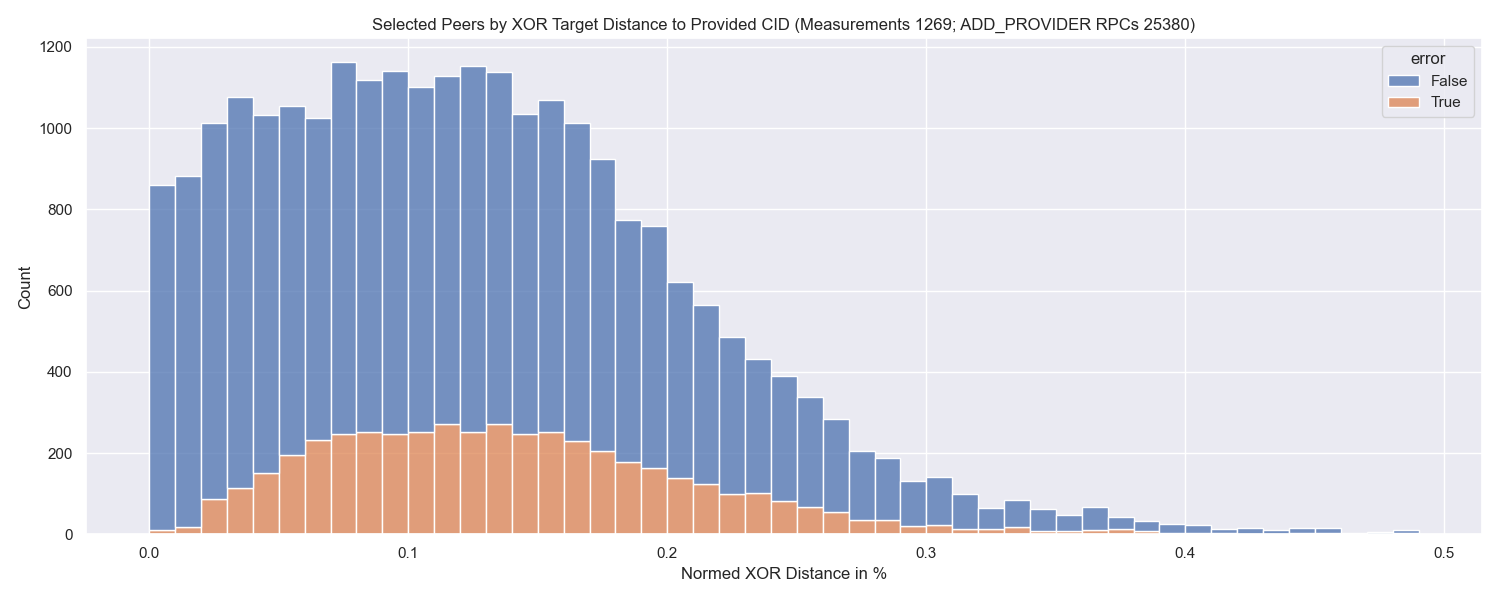
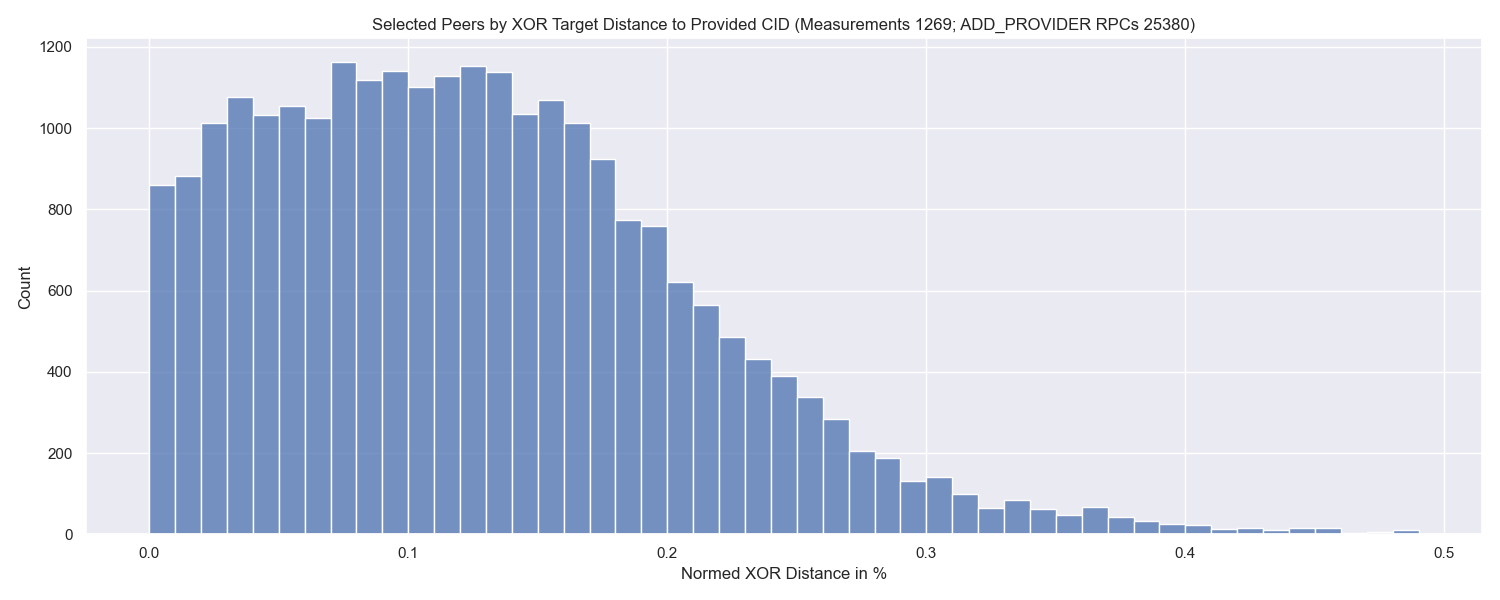
Update plots and README

Changed region(s): [[0.092, 0.69, 0.7667, 0.9], [0.92, 0.09, 0.9813, 0.18]]

diff --git a/analysis/plot_distance_error.py b/analysis/plot_distance_error.py
@@ -12,6 +12,7 @@ def plot():
     measurements = ModelLoader.open("../data")
 
     distances = []
+    has_errors = []
     for measurement in measurements:
         for span in measurement.provider.spans:
             if span.type != "ADD_PROVIDER":
@@ -19,8 +20,12 @@ def plot():
 
             peer_info = measurement.provider.peer_infos[span.peer_id]
             distances += [peer_info.distance_pct]
+            has_errors += [span.has_error]
 
-    combined = pd.DataFrame({"distances": distances})
+    combined = pd.DataFrame({
+        "distances": distances,
+        "error": has_errors
+    })
 
     fig, ax = plt.subplots(figsize=(15, 6))
 
@@ -29,6 +34,9 @@ def plot():
         data=combined,
         x="distances",
         bins=np.arange(50) / 100,
+        multiple="stack",
+        hue="error",
+        legend=True,
     )
     ax.set_ylabel("Count")
     ax.set_xlabel("Normed XOR Distance in %")
@@ -37,7 +45,7 @@ def plot():
     plt.title(
         f"Selected Peers by XOR Target Distance to Provided CID ({stats_str})")
     plt.tight_layout()
-    plt.savefig("../plots/distance.png")
+    plt.savefig("../plots/distance_error.png")
     plt.show()
 
 

diff --git a/README.md b/README.md
@@ -1,4 +1,4 @@
-# Optimistic Provide
+# Optimistic Provide - Tool & Proposal
 
 [![GitHub license](https://img.shields.io/github/license/dennis-tra/optimistic-provide)](https://github.com/dennis-tra/optimistic-provide/blob/main/LICENSE)
 
@@ -7,7 +7,7 @@ This repo contains:
 1. A libp2p DHT performance measurement tool. As of now, it primarily measures the performance of providing content in the network.
 2. A proposal for an alternative approach to content providing.
 
-## 🚧 Work In Progress - Proposal - Optimistic Provide
+## Proposal - Optimistic Provide
 
 ## Abstract
 
@@ -27,20 +27,20 @@ There are two termination conditions for this process:
 This can lead to huge delays if some of the 20 closest peers don't respond timely or are straight out not reachable.
 The following graph shows the latency distribution of the whole provide-process for 1,269 distinct provide operations.
 
-![](./plots/provide_latencies.png)
+![Provide Latencies](./plots/provide_latencies.png)
 
 In other words, it shows the distribution of how long it takes for the [`kaddht.Provide(ctx, CID, true)`](https://github.com/libp2p/go-libp2p-kad-dht/blob/0b7ac010657443bc0675b3bd61133fe04d61d25b/fullrt/dht.go#L752) call to return.
 At the top of the graph you can find the percentiles and total sample size. There is a huge spike at around 10s which is probably related to an exceeded context deadline - not sure though.
 
 If we on the other hand look at how long it took to find the peers that we eventually **attempted** stored the provider records at, we see that it takes less than 1.6s in the vast majority of cases.
 
-![](./plots/discover_latencies.png)
+![Discover Latencies](./plots/discover_latencies.png)
 
 Again, sample size and percentiles are given in the figure title. The sample size corresponds to `1269 * 20` as in every `Provide`-run we attempt to save the provider record at 20 peers.
 
 The same point can be made if we take a look at how many hops it took to find a peer that we eventually **attempted** to store the provider records at:
 
-![](./plots/hop_distribution.png)
+![Hop Distribution](./plots/hop_distribution.png)
 
 Note the log scale of the `y`-axis.
 
@@ -52,7 +52,7 @@ The following graph shows the above distribution depending on the [normed XOR di
 
 <details>
 <summary>View this graph as multiple plots</summary>
-![](./plots/hop_distribution_by_distance_multi_plot.png)
+<img src="./plots/hop_distribution_by_distance_multi_plot.png" alt="Hop distribution multi plot"/>
 </details>
 
 If the distance is small (0 - 10 %) most of the times it only takes one hop to discover an appropriate peer. As the distance increases the distribution shifts to more hops - though it's not as clear as I expected it to be.
@@ -63,7 +63,7 @@ The [IPFS Content Providing Proposal](https://github.com/protocol/web3-dev-team/
 
 > Currently go-ipfs users are able to utilize the public IPFS DHT to find who has advertised they have some CID in under 1.5s in 95+% of cases. However, the process of putting those advertisements into the DHT is slow (e.g. 1 minute) [...].
 
-These numbers are in line with the above measurements. One of the goals of this proposal is to
+These numbers are in line with the above measurements. One of the goals of that proposal is to
 
 > [m]ake IPFS public DHT puts take <3 seconds [...].
 
@@ -74,9 +74,9 @@ To achieve this four techniques are proposed:
 > - Not requiring responses from all 20 peers before returning to the user
 > - Not requiring responses from the 3 closest peers before aborting the query (e.g. perhaps 5 of the closest 10)
 
-This propsoal suggests a fifth option for this list but won't address the bottleneck of advertising large amounts of CIDs.
+This propsoal suggests a fifth option for that list but won't address the bottleneck of advertising large amounts of CIDs. Though, you could argue that if content providing becomes faster that bottleneck is alleviated as well.
 
-## Proposal - Optimistic Provide
+## Optimistic Provide
 
 The discrepancy between the time the provide operations take and the time it could have taken led to the idea of just storing provider records optimistically at peers.
 This would trade storing these records on potentially more than 20 peers for decreasing the time content becomes available in the network.
@@ -91,7 +91,7 @@ When finding a new peer with Peer ID `P` we calculate the distance to the CID `C
 
 If we norm `P` and `C` to the range from `0` to `1` this can be calculated as:
 
-```
+```text
 μ = || P - C || * N
 ```
 
@@ -107,48 +107,25 @@ This threshold could also consider standard deviation etc. and could generally b
 
 The following graph shows the distribution of [normed XOR distances](#normed-xor-distance) of the peers that were selected to store the provider record to the CID that was provided.
 
-![](./plots/peer_distances.png)
+![Peer Distances](./plots/distance.png)
 
- The center of mass of this distribution is roughly at `0.1 %`.
-So If we find a peer that has a distance of `|| P - C || = 0.1 %` while the network has a size of `N = 7000` peers we would expect to find `7` peers that are closer than the one we just found. 
+The center of mass of this distribution is roughly at `0.1 %`.
+So If we find a peer that has a distance of `|| P - C || = 0.1 %` while the network has a size of `N = 7000` peers we would expect to find `7` peers that are closer than the one we just found.
+Therefore, we would store a provider record at that peer right away.
 
-`N = 7000` is a realistic assumption based on [our crawls](https://github.com/dennis-tra/nebula-crawler).
+> `N = 7000` is a realistic assumption based on [our crawls](https://github.com/dennis-tra/nebula-crawler).
 
-### Simulation
+### Network Size
 
-_** 🚨 The following model doesn't approximate the above distribution very well**_
+Since the calculation above needs information about the current network size there is the question of how get to that information locally on every node. I could come up with three strategies:
 
-Assumptions:
+1. Hard Coding
+2. Periodic full DHT crawls (was implemented in the [new experimental DHT client](https://github.com/libp2p/go-libp2p-kad-dht/releases/tag/v0.12.0))
+3. Estimation based on peer-CID proximity of previous provide operations
 
-- Peer IDs are uniformly distributed across the entire key space
-- The number of DHT server peers is `7000` (got this number from [our crawl results](https://github.com/dennis-tra/nebula-crawler)).
+## Measurements
 
-```python
-import numpy as np
-
-NETWORK_SIZE = 7000
-MEASUREMENTS = 623
-BETA = 20
-distances_all = []
-peer_ids = np.random.uniform(0, 1, NETWORK_SIZE)
-for i in range(MEASUREMENTS):
-  cid = np.random.random()
-  distances = np.sort(np.abs(peer_ids - cid))
-
-  for dist in distances[:BETA]:
-    distances_all += [dist * 100]
-``` 
-
-![](./plots/peer_distance_sim_7000.png)
-
-The above probably has a faulty reasoning as the distribution matches the measurements a little closer with half the network size (3500):
-
-![](./plots/peer_distance_sim_3500.png)
-
-
-## Methodology
-
-### Measurement Setup
+### Setup
 
 The measurements were conducted on the following machine:
 
@@ -158,18 +135,28 @@ The measurements were conducted on the following machine:
 - `Datacenter` - `nbg1-dc3`
 - `Country` - `Germany`
 - `City` - `Nuremberg`
+- `No. of Measurements` - `1269`
 
-The following results show measurement data that was collected from 2021-11-05 to 2021-11-07.
+> To be transparent: There are 8 measurement instances that I have excluded from the analysis. They didn't have 20 ADD_PROVIDER RPCs after the provide procedure has finished. Since I saw some error messages about not enough file descriptors I suspected that this was related, and [I filtered those measurements](https://github.com/dennis-tra/optimistic-provide/blob/a8db5a07125729ae457ccdb73e3ec1fc044bcdba/analysis/model_loader.py#L32).
 
-- Number of measurements `623`
+### Methodology
 
+The measurement tool is a simple Go program that initializes one `provider` libp2p host and a variable number of `requester` libp2p hosts (in the measurements above five) **on a single machine**.
+Every libp2p host (provider and requesters) has a random identity in the Kademlia key space.
+When starting a measurement the libp2p hosts get initialized and their routing tables get refreshed.
+After that is done, 1024kB of random data gets generated, its CID get calculated and the `provider` host starts advertising that CID in the network.
+
+The libp2p hosts were initialized with thin wrappers around the default `tcp` and `websocket` transports as well as the `messageSenderImpl` which handles the DHT RPC back and forth.
+This is done to intercept the `dial` and `RPC` events to track them later on.
+
+After the provide procedure has finished, the `requester` hosts get instructed to query the network for the CID that was just provided. Again, the `dial` and `RPC` events are tracked. Since the `requester` hosts are also randomly distributed in the key space it should give a reasonable approximation for the content retrieval performance. This data is not yet analysed, though.
 
 ### Normed XOR Distance
 
 In the graphs you will find XOR distance values in the range from 0 to 1 or their corresponding percentage representation. These values are derived by dividing the 256-bit XOR distance by `2^256 - 1`. Since the maximum possible XOR distance between two values in the 256-bit key-space is `2^256 - 1`, the division by this maximum norms the resulting distance value into the range from 0 to 1. This is solely done to work with more handy numbers. As the distance can become quite small the graphs may also show the distance as a percentage from that 0 to 1 range.
 
-
 ### Process visualization
+
 This repository also contains code to visualize the provide process. Here is an example:
 
 ![](./plots/provide_process.png)
